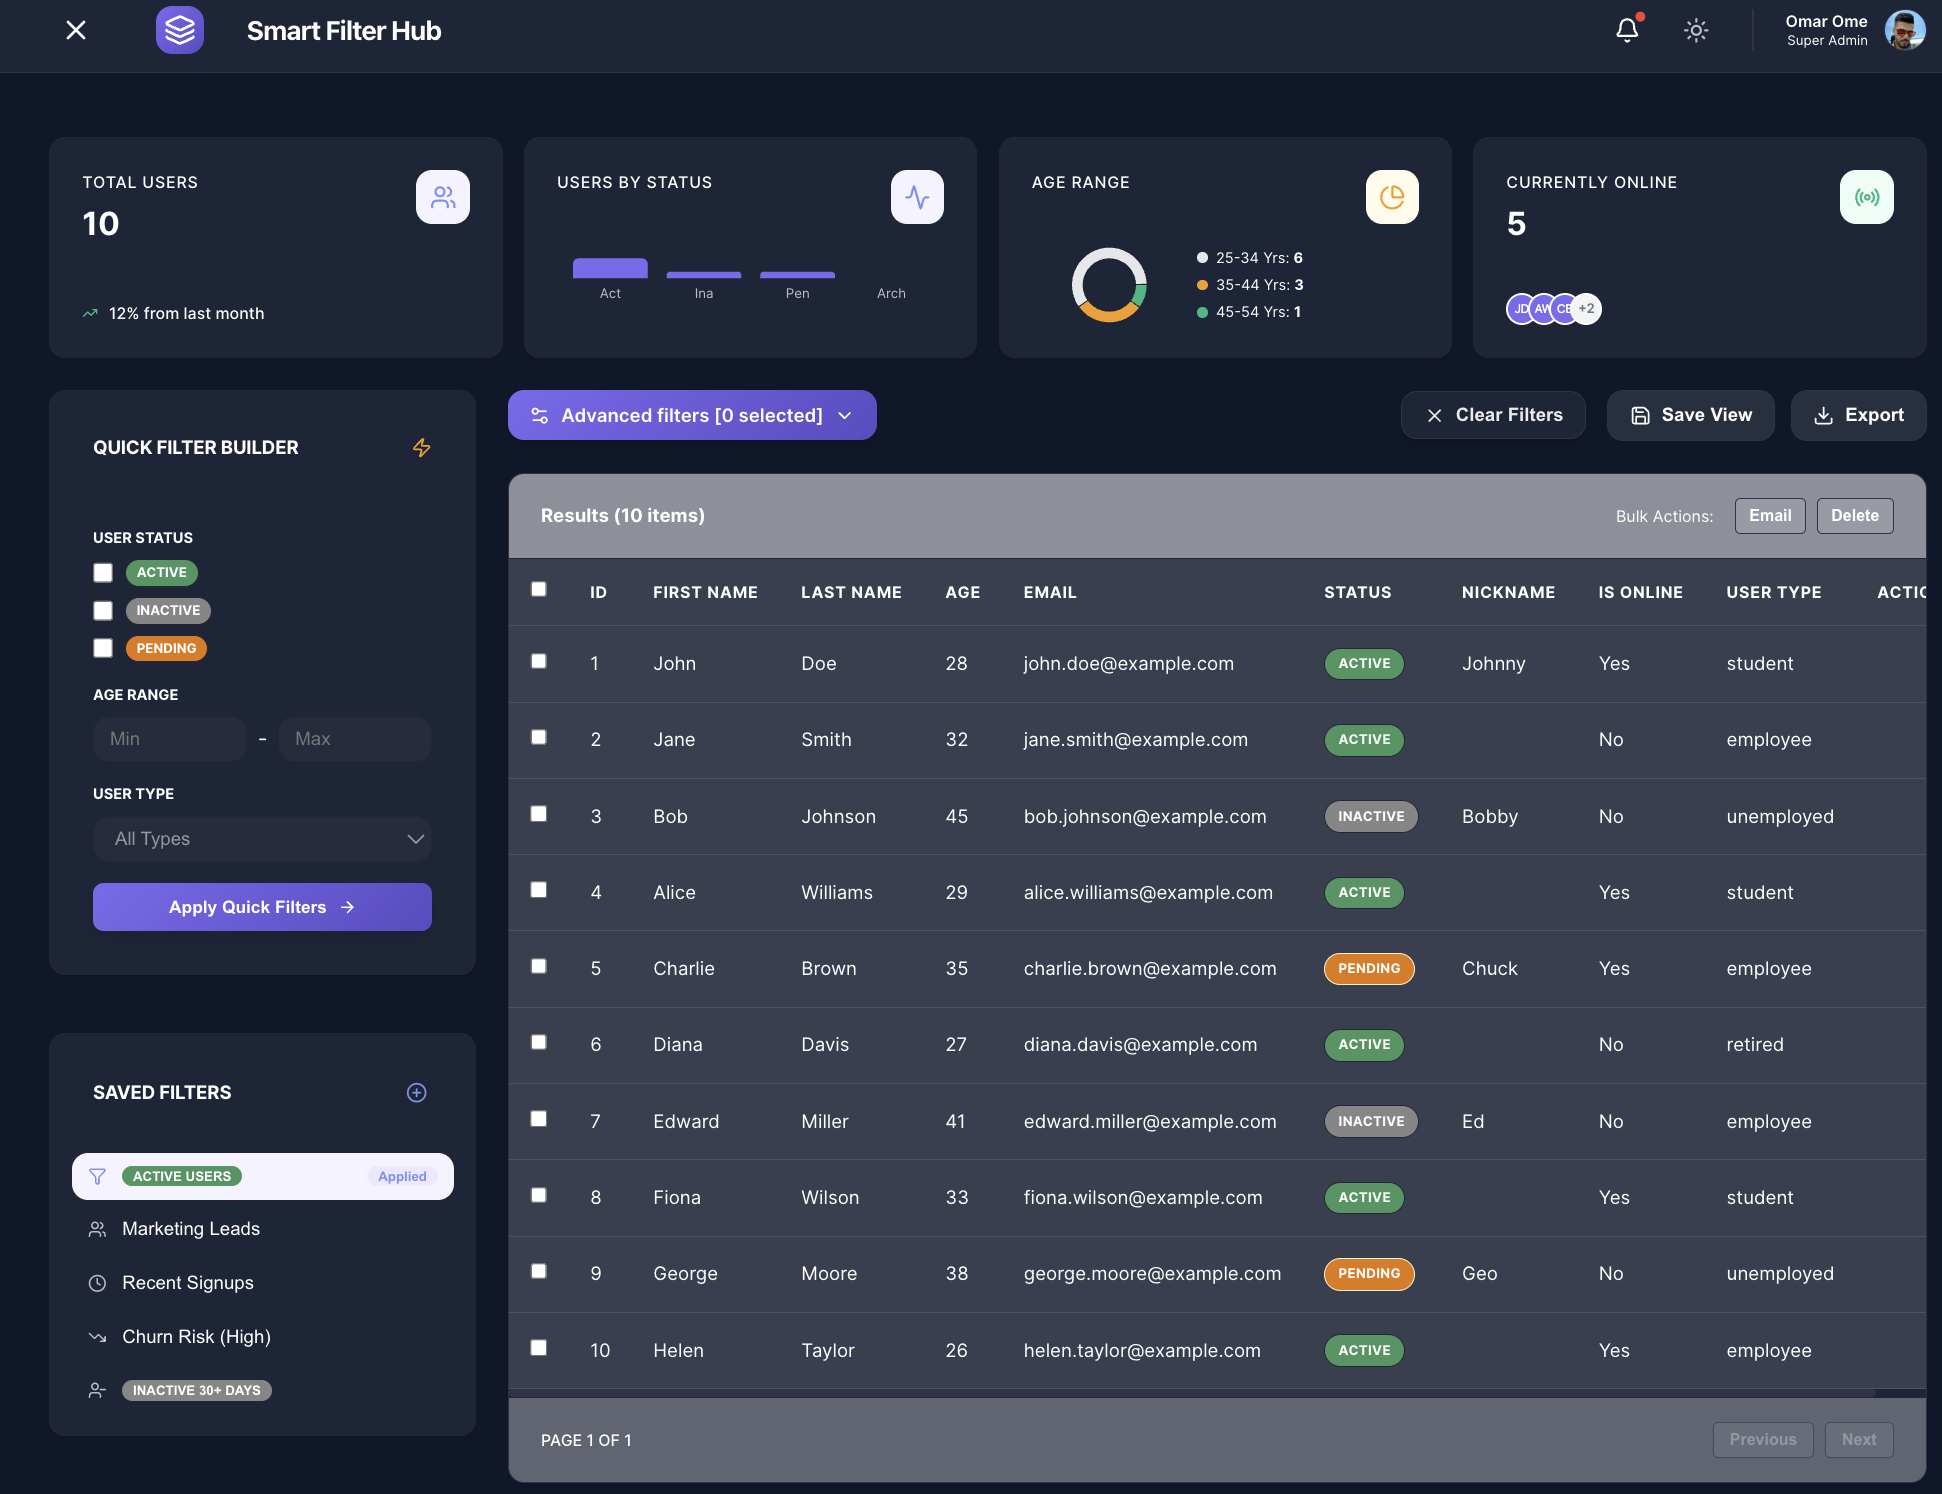
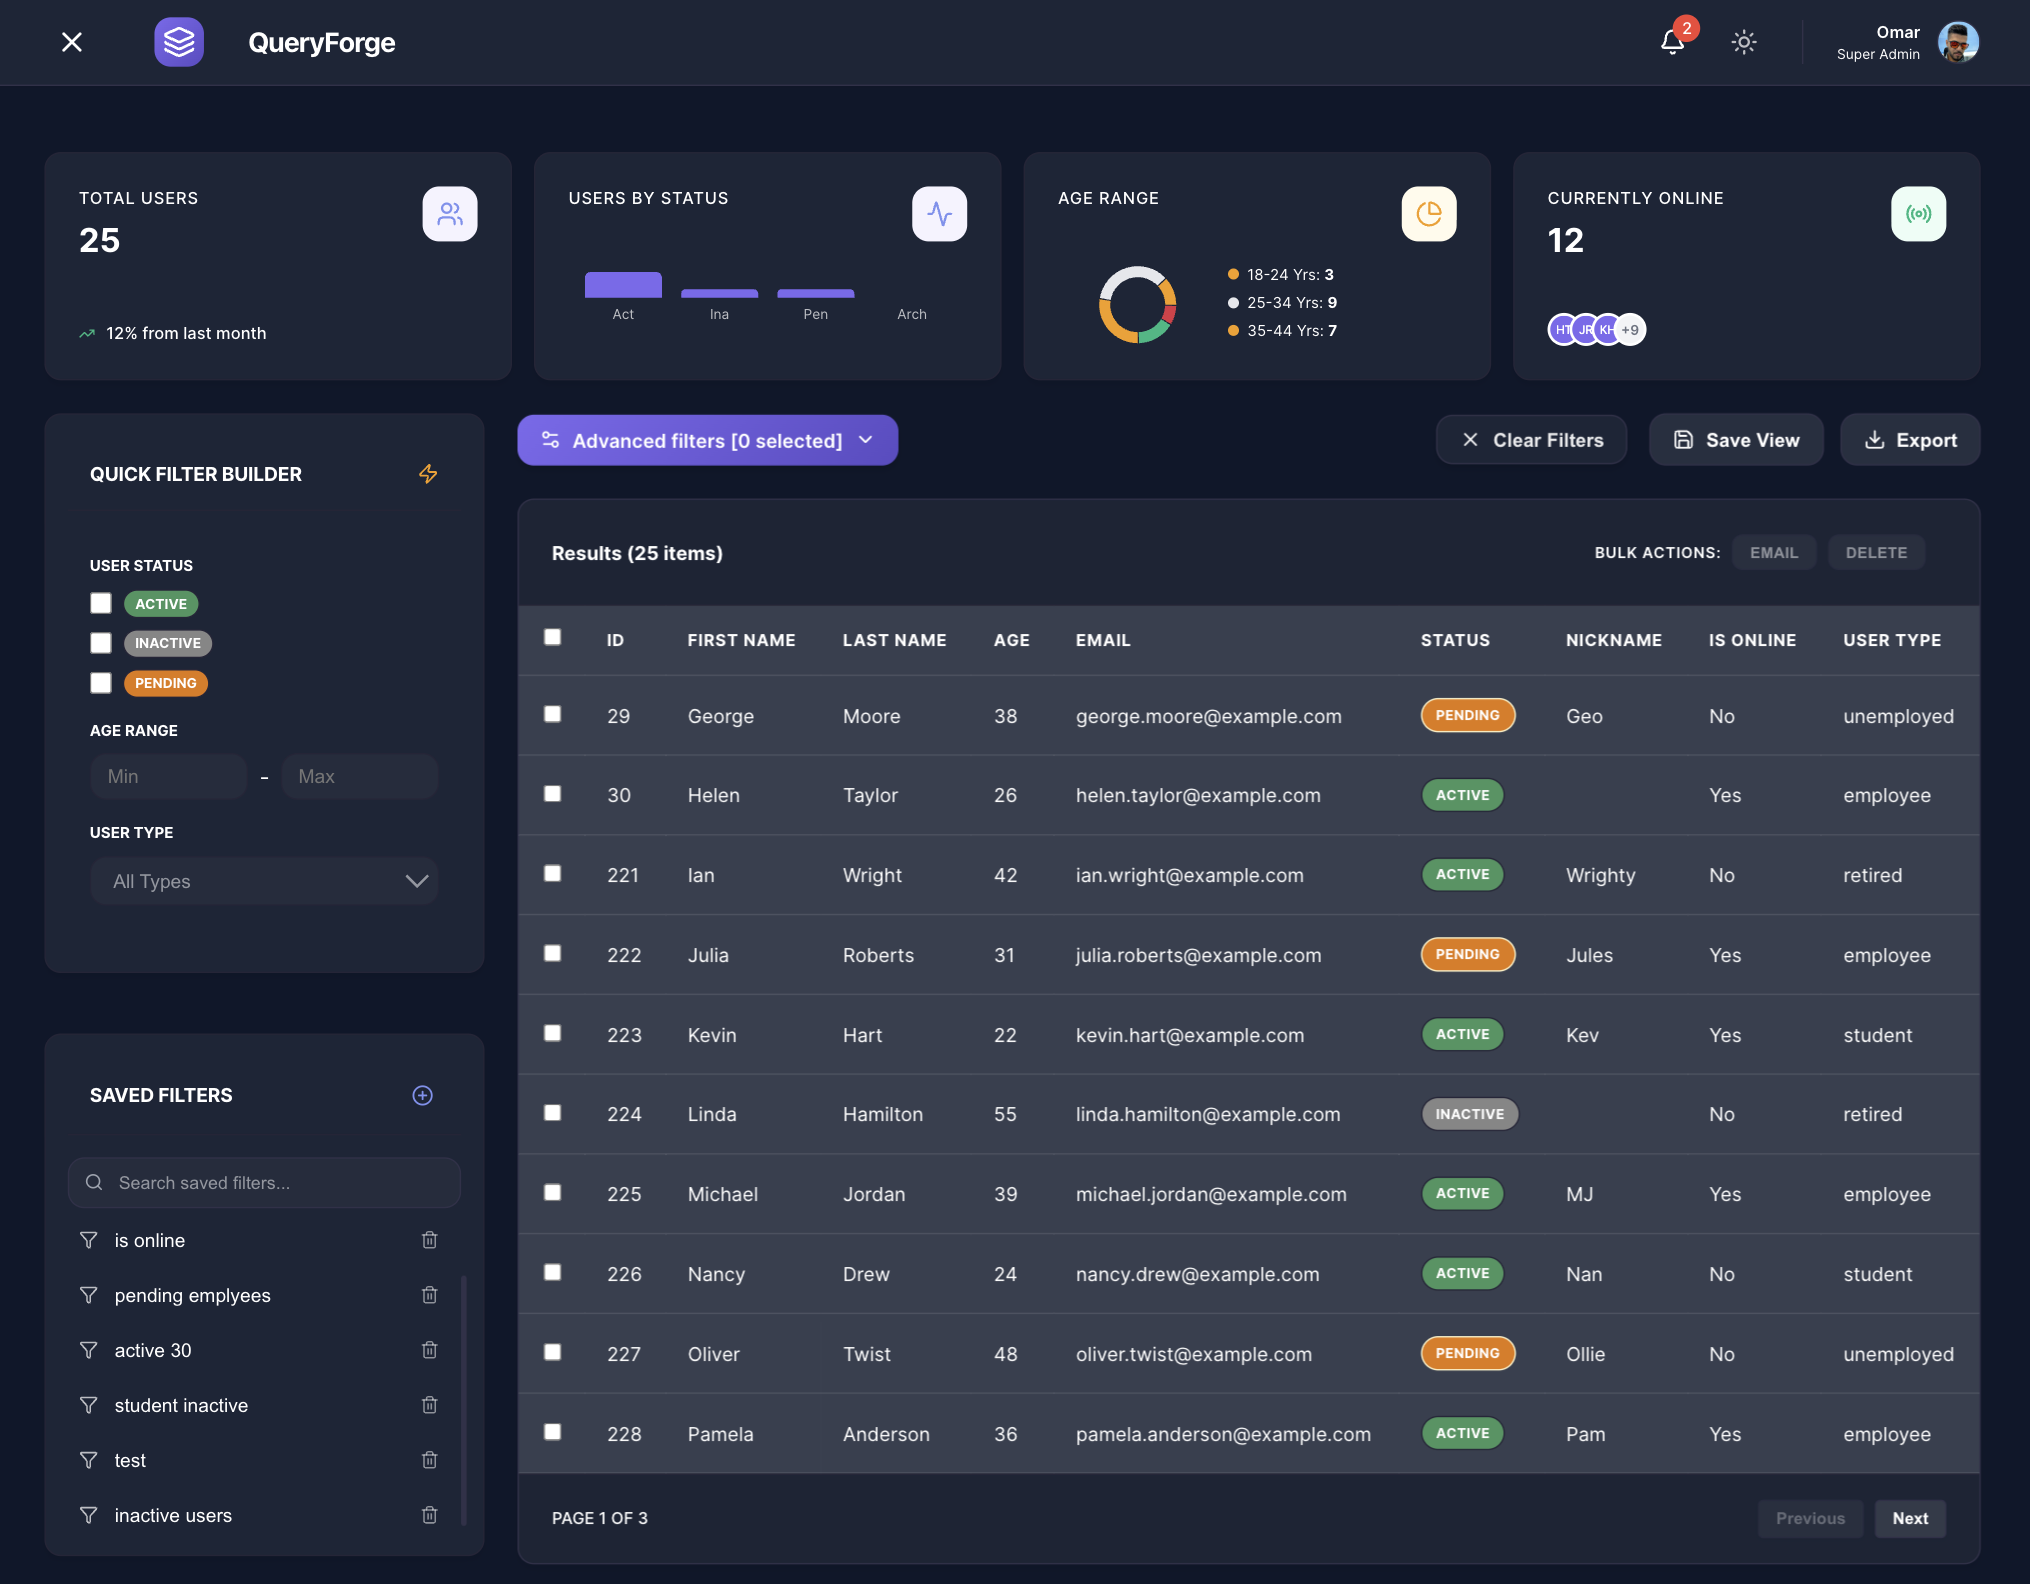
update the app name and the readme file

diff --git a/src/styles/QuickFilterBuilder.less b/src/styles/QuickFilterBuilder.less
@@ -180,9 +180,11 @@
     0% {
       box-shadow: 0 0 0 0 rgba(124, 105, 239, 0.4);
     }
+
     70% {
       box-shadow: 0 0 0 10px rgba(124, 105, 239, 0);
     }
+
     100% {
       box-shadow: 0 0 0 0 rgba(124, 105, 239, 0);
     }
@@ -191,13 +193,13 @@
   .saved-filters-section {
     display: flex;
     flex-direction: column;
-    max-height: 400px; /* Constrain height for scrolling */
+    max-height: 380px;
   }
 
   .saved-filters-search {
     margin-bottom: 12px;
     position: relative;
-    
+
     .filter-input {
       width: 100%;
       padding: 10px 12px;
@@ -208,17 +210,17 @@
       border-radius: var(--border-radius-custom);
       color: var(--text-color);
       transition: all 0.2s ease;
-      
+
       &::placeholder {
         color: var(--text-placeholder);
       }
-      
+
       &:focus {
         border-color: var(--primary-color);
         background-color: var(--background);
         box-shadow: 0 0 0 2px var(--primary-100), 0 2px 4px rgba(0, 0, 0, 0.05);
       }
-      
+
       &:hover:not(:focus) {
         border-color: var(--border-color-light);
         background-color: var(--background);
@@ -245,8 +247,10 @@
     flex-direction: column;
     gap: 4px;
     overflow-y: auto;
-    padding-right: 4px; /* Space for scrollbar */
-    margin-right: -4px; /* Offset padding */
+    padding-right: 4px;
+    /* Space for scrollbar */
+    margin-right: -4px;
+    /* Offset padding */
     flex: 1;
 
     &.custom-scrollbar::-webkit-scrollbar {
@@ -274,25 +278,26 @@
       padding: 6px 8px;
       border-radius: var(--border-radius-custom);
       transition: all 0.2s;
-      
+
       &:hover {
         background-color: var(--background-soft);
       }
-      
+
       &.active {
         background: var(--primary-gradient);
         box-shadow: 0 4px 12px rgba(124, 105, 239, 0.3);
 
         .nav-item-btn {
           color: white;
-          
+
           .nav-label-group svg {
             color: white;
           }
         }
-        
+
         .delete-view-btn {
           color: rgba(255, 255, 255, 0.7);
+
           &:hover {
             color: white;
             background-color: rgba(255, 255, 255, 0.2);
@@ -305,8 +310,8 @@
         }
 
         &:hover {
-           opacity: 0.95;
-           box-shadow: 0 6px 16px rgba(124, 105, 239, 0.4);
+          opacity: 0.95;
+          box-shadow: 0 6px 16px rgba(124, 105, 239, 0.4);
         }
       }
 
@@ -329,7 +334,8 @@
           display: flex;
           align-items: center;
           gap: 12px;
-          min-width: 0; /* Enable flex child truncation */
+          min-width: 0;
+          /* Enable flex child truncation */
           width: 100%;
 
           svg {
@@ -337,7 +343,7 @@
             flex-shrink: 0;
           }
 
-           .truncate-text {
+          .truncate-text {
             white-space: nowrap;
             overflow: hidden;
             text-overflow: ellipsis;
@@ -345,13 +351,13 @@
           }
         }
       }
-      
+
       .nav-item-actions {
         display: flex;
         align-items: center;
         gap: 8px;
         flex-shrink: 0;
-        
+
         .applied-pill {
           font-size: 10px;
           background-color: var(--primary-100);
@@ -360,7 +366,7 @@
           border-radius: 999px;
           font-weight: 700;
         }
-        
+
         .delete-view-btn {
           background: none;
           border: none;
@@ -372,7 +378,7 @@
           align-items: center;
           justify-content: center;
           transition: all 0.2s;
-          
+
           &:hover {
             color: white;
             background-color: var(--error-hover);

diff --git a/src/components/Layout/Layout.js b/src/components/Layout/Layout.js
@@ -63,7 +63,7 @@ const Layout = ({ children, sidebarContent, analyticsContent, bannerContent, mod
             <div className="logo-box" onClick={() => navigate('/')}>
               <LucideLayers size={24} />
             </div>
-            <Typography variant="h1" className="site-title" onClick={() => navigate('/')}>Smart Filter Hub</Typography>
+            <Typography variant="h1" className="site-title" onClick={() => navigate('/')}>QueryForge</Typography>
             {/* <div className="search-bar">
               <LucideSearch className="search-icon" size={18} />
               <input type="text" placeholder="Search across all records..." />

diff --git a/index.html b/index.html
@@ -3,10 +3,10 @@
   <head>
     <meta charset="UTF-8" />
     <meta name="viewport" content="width=device-width, initial-scale=1.0" />
-    <meta name="description" content="Smart Filter Hub — advanced data filtering powered by React Query Builder" />
+    <meta name="description" content="QueryForge — advanced data filtering powered by a dynamic rule-based query engine" />
     <meta name="theme-color" content="#1976d2" />
     <link rel="icon" type="image/svg+xml" href="/favicon.svg" />
-    <title>Smart Filter Hub</title>
+    <title>QueryForge</title>
   </head>
   <body>
     <div id="root"></div>

diff --git a/src/components/LoginPage/LoginPage.js b/src/components/LoginPage/LoginPage.js
@@ -66,7 +66,7 @@ export default function LoginPage({ onSwitchToRegister }) {
           Welcome Back
         </Typography>
         <Typography variant="body2" className="login-subtitle">
-          Sign in to Smart Filter Hub
+          Sign in to QueryForge
         </Typography>
 
         {error && (

diff --git a/src/components/RegisterPage/RegisterPage.js b/src/components/RegisterPage/RegisterPage.js
@@ -71,7 +71,7 @@ export default function RegisterPage({ onSwitchToLogin }) {
           Create Account
         </Typography>
         <Typography variant="body2" className="register-subtitle">
-          Join Smart Filter Hub
+          Join QueryForge
         </Typography>
 
         {error && (

diff --git a/src/services/userApi.js b/src/services/userApi.js
@@ -1,5 +1,5 @@
 /**
- * API client for the Smart Filter Hub backend.
+ * API client for the QueryForge backend.
  *
  * All requests carry a JWT Bearer token obtained from AuthProvider.
  * The base URL is configured via the VITE_API_BASE_URL environment variable.

diff --git a/README.md b/README.md
@@ -1,21 +1,27 @@
-## Smart Filter Hub
+## QueryForge
 
-A production-ready React application for dynamic data filtering, built on top of [React Query Builder](https://react-querybuilder.js.org/). It connects to a Spring Boot backend for live data and field definitions, with automatic fallback to local mock data when the API is unavailable.
+[![Live Demo](https://img.shields.io/badge/Live_Demo-Production-success?style=for-the-badge&logo=netlify)](https://smart-filter-hub.netlify.app/)
+[![Frontend Repo](https://img.shields.io/badge/Frontend-React-blue?style=for-the-badge&logo=react)](https://github.com/omarome/smart_filter_hub)
+[![Backend Repo](https://img.shields.io/badge/Backend-Spring_Boot-green?style=for-the-badge&logo=spring)](https://github.com/omarome/smart-filter-hub-backend)
+
+**QueryForge** is a full-stack, production-ready data querying dashboard designed to demonstrate advanced frontend and backend development skills. Built with **React** and **Spring Boot**, it provides a powerful, dynamic rule-based query engine that allows users to construct complex data filters with ease.
+
+At its core, the application integrates a robust query builder interface to deliver an intuitive experience for building nested logic (AND/OR) queries. It connects to a REST API for live data and dynamic field definitions, seamlessly handling complex state management, custom UI components, and real-time data table updates.
 
 ![Query Builder component preview](./public/images/screenshot_dark_mode.png)
 
-### Features
+### 🔥 Key Features
 
-- **Paginated results table** — dynamic pagination with total item count and responsive navigation
-- **Auto-initial rule** — filter panel automatically adds the first field rule when expanded if empty
-- **Global Dark/Light Mode** — seamless theme switching in the header and auth pages with persistence
-- **Dynamic field definitions** — fields, operators, and types are fetched from the backend (`/api/variables`)
-- **Autocomplete value editor** — type-ahead suggestions extracted from live data with keyboard navigation
-- **Type-aware validation** — cross-cutting sanitization and RQB-compatible field validators
-- **Collapsible filter panel** — toggle button with active rule count and click-outside dismissal
-- **Floating UI positioning** — robust, viewport-aware positioning for suggestion portals
-- **Graceful API fallback** — automatic mock data fallback with notification banner
-- **Accessible** — full ARIA compliance and keyboard-only navigation support
+- **Advanced Query Engine:** Build complex, nested logic rules with a visual, intuitive interface based on React Query Builder.
+- **Quick Filter Sidebar:** Rapidly apply common filters (status, age ranges, user types) that sync bidirectionally with the advanced query state.
+- **Saved Filter Views:** Create, name, and persist custom queries for quick access, complete with applied state indicators.
+- **Dynamic Data Definitions:** Fields, operators, and data types are fetched dynamically from the backend (`/api/variables`), making the UI entirely data-driven.
+- **Intelligent Autocomplete:** Custom value editors feature type-ahead suggestions extracted from live data, with full keyboard navigation and type-aware validation.
+- **Comprehensive Testing:** Backed by **over 100+ unit tests** ensuring complete reliability, edge-case handling, and stability across the frontend and backend architectures.
+- **Real-time Pagination & Notifications:** Fast, responsive data table with pagination, alongside a live notification system with optimistic UI updates.
+- **Full-Stack Authentication:** Secure user registration and login flows, including OAuth2 (Google) capabilities.
+- **Theme & State Resilience:** Global Dark/Light mode with persistence, and a graceful fallback mechanism that automatically switches to local mock data if the backend API is unavailable.
+- **Accessibility & UX:** Fully ARIA compliant, keyboard navigable, floating UI positioning for portals, and click-outside dismissal.
 
 ### Tech Stack
 
@@ -61,7 +67,7 @@ The application uses Vite environment variables (prefixed with `VITE_`). These c
 | `VITE_API_BASE_URL` | Base URL for the backend API. Should include `/api` suffix if using proxy. | `/api` |
 | `VITE_API_USERNAME` | HTTP Basic auth username for API requests. Leave blank to disable authentication. | *(none)* |
 | `VITE_API_PASSWORD` | HTTP Basic auth password for API requests. | *(none)* |
-| `VITE_APP_TITLE` | Text displayed in the header. | `Smart Filter Hub` |
+| `VITE_APP_TITLE` | Text displayed in the header. | `QueryForge` |
 | `VITE_BANNER_DURATION` | Milliseconds before the live/mock notification banner auto-dismisses. | `3000` |
 
 In Netlify, define the variables under **Site settings → Build & deploy → Environment**. Do **not** commit a `.env` file containing secrets; configure them via the platform or local tooling.
@@ -143,3 +149,9 @@ Example filters to try:
 - **NOT toggle** — verify negation works at any nesting level
 - **API fallback** — verify banner shows "live" or "mock" depending on backend availability
 - **Accessibility** — verify ARIA attributes, focus order, keyboard-only usage
+
+### License
+
+This project is open-source and available under the [MIT License](LICENSE).
+
+
